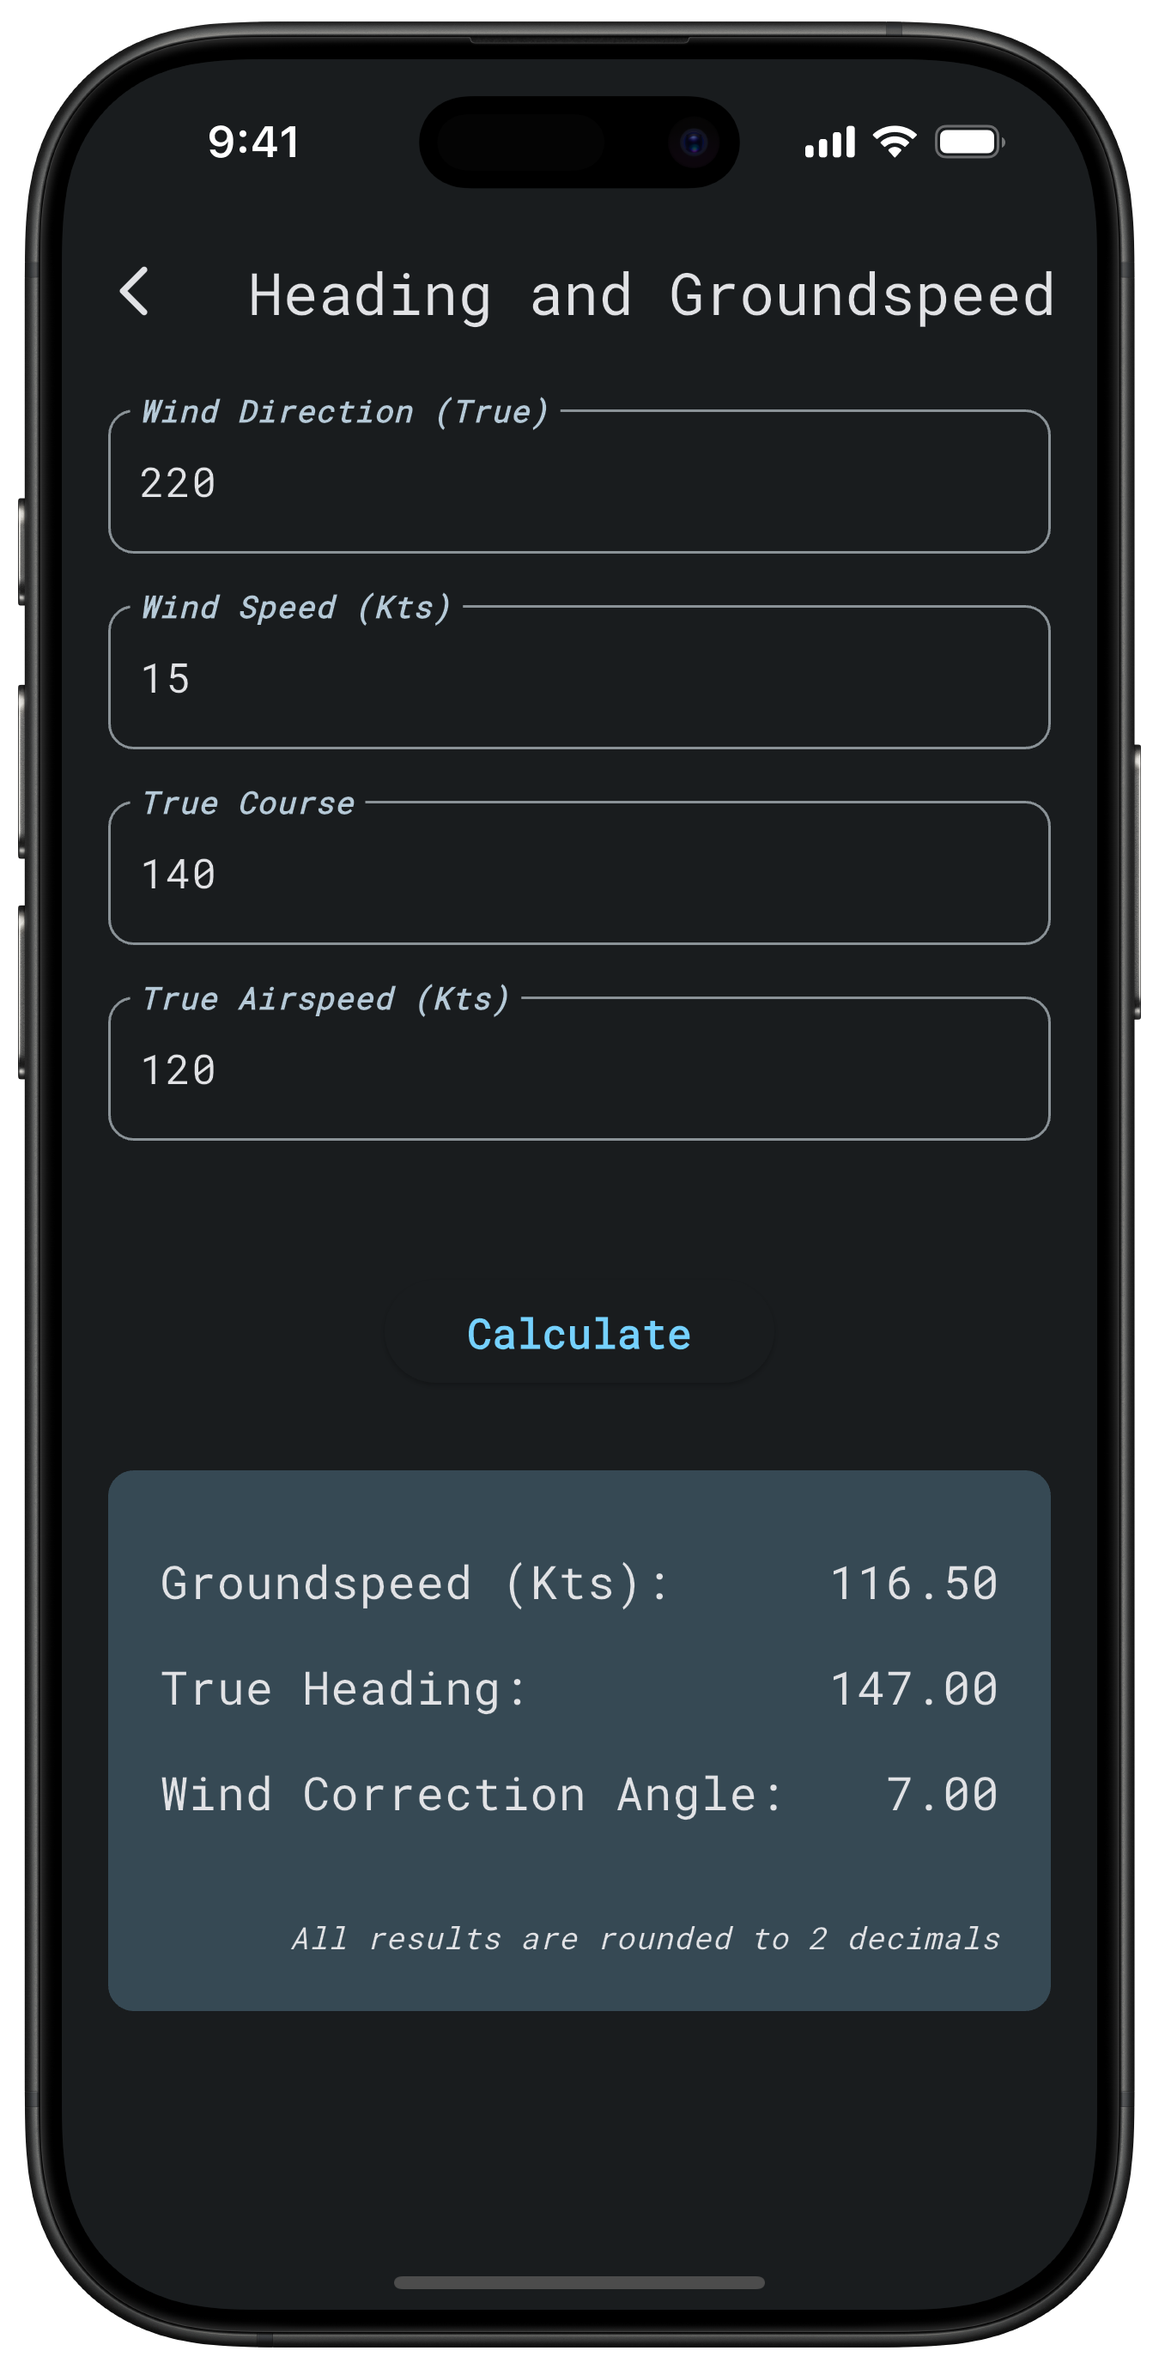
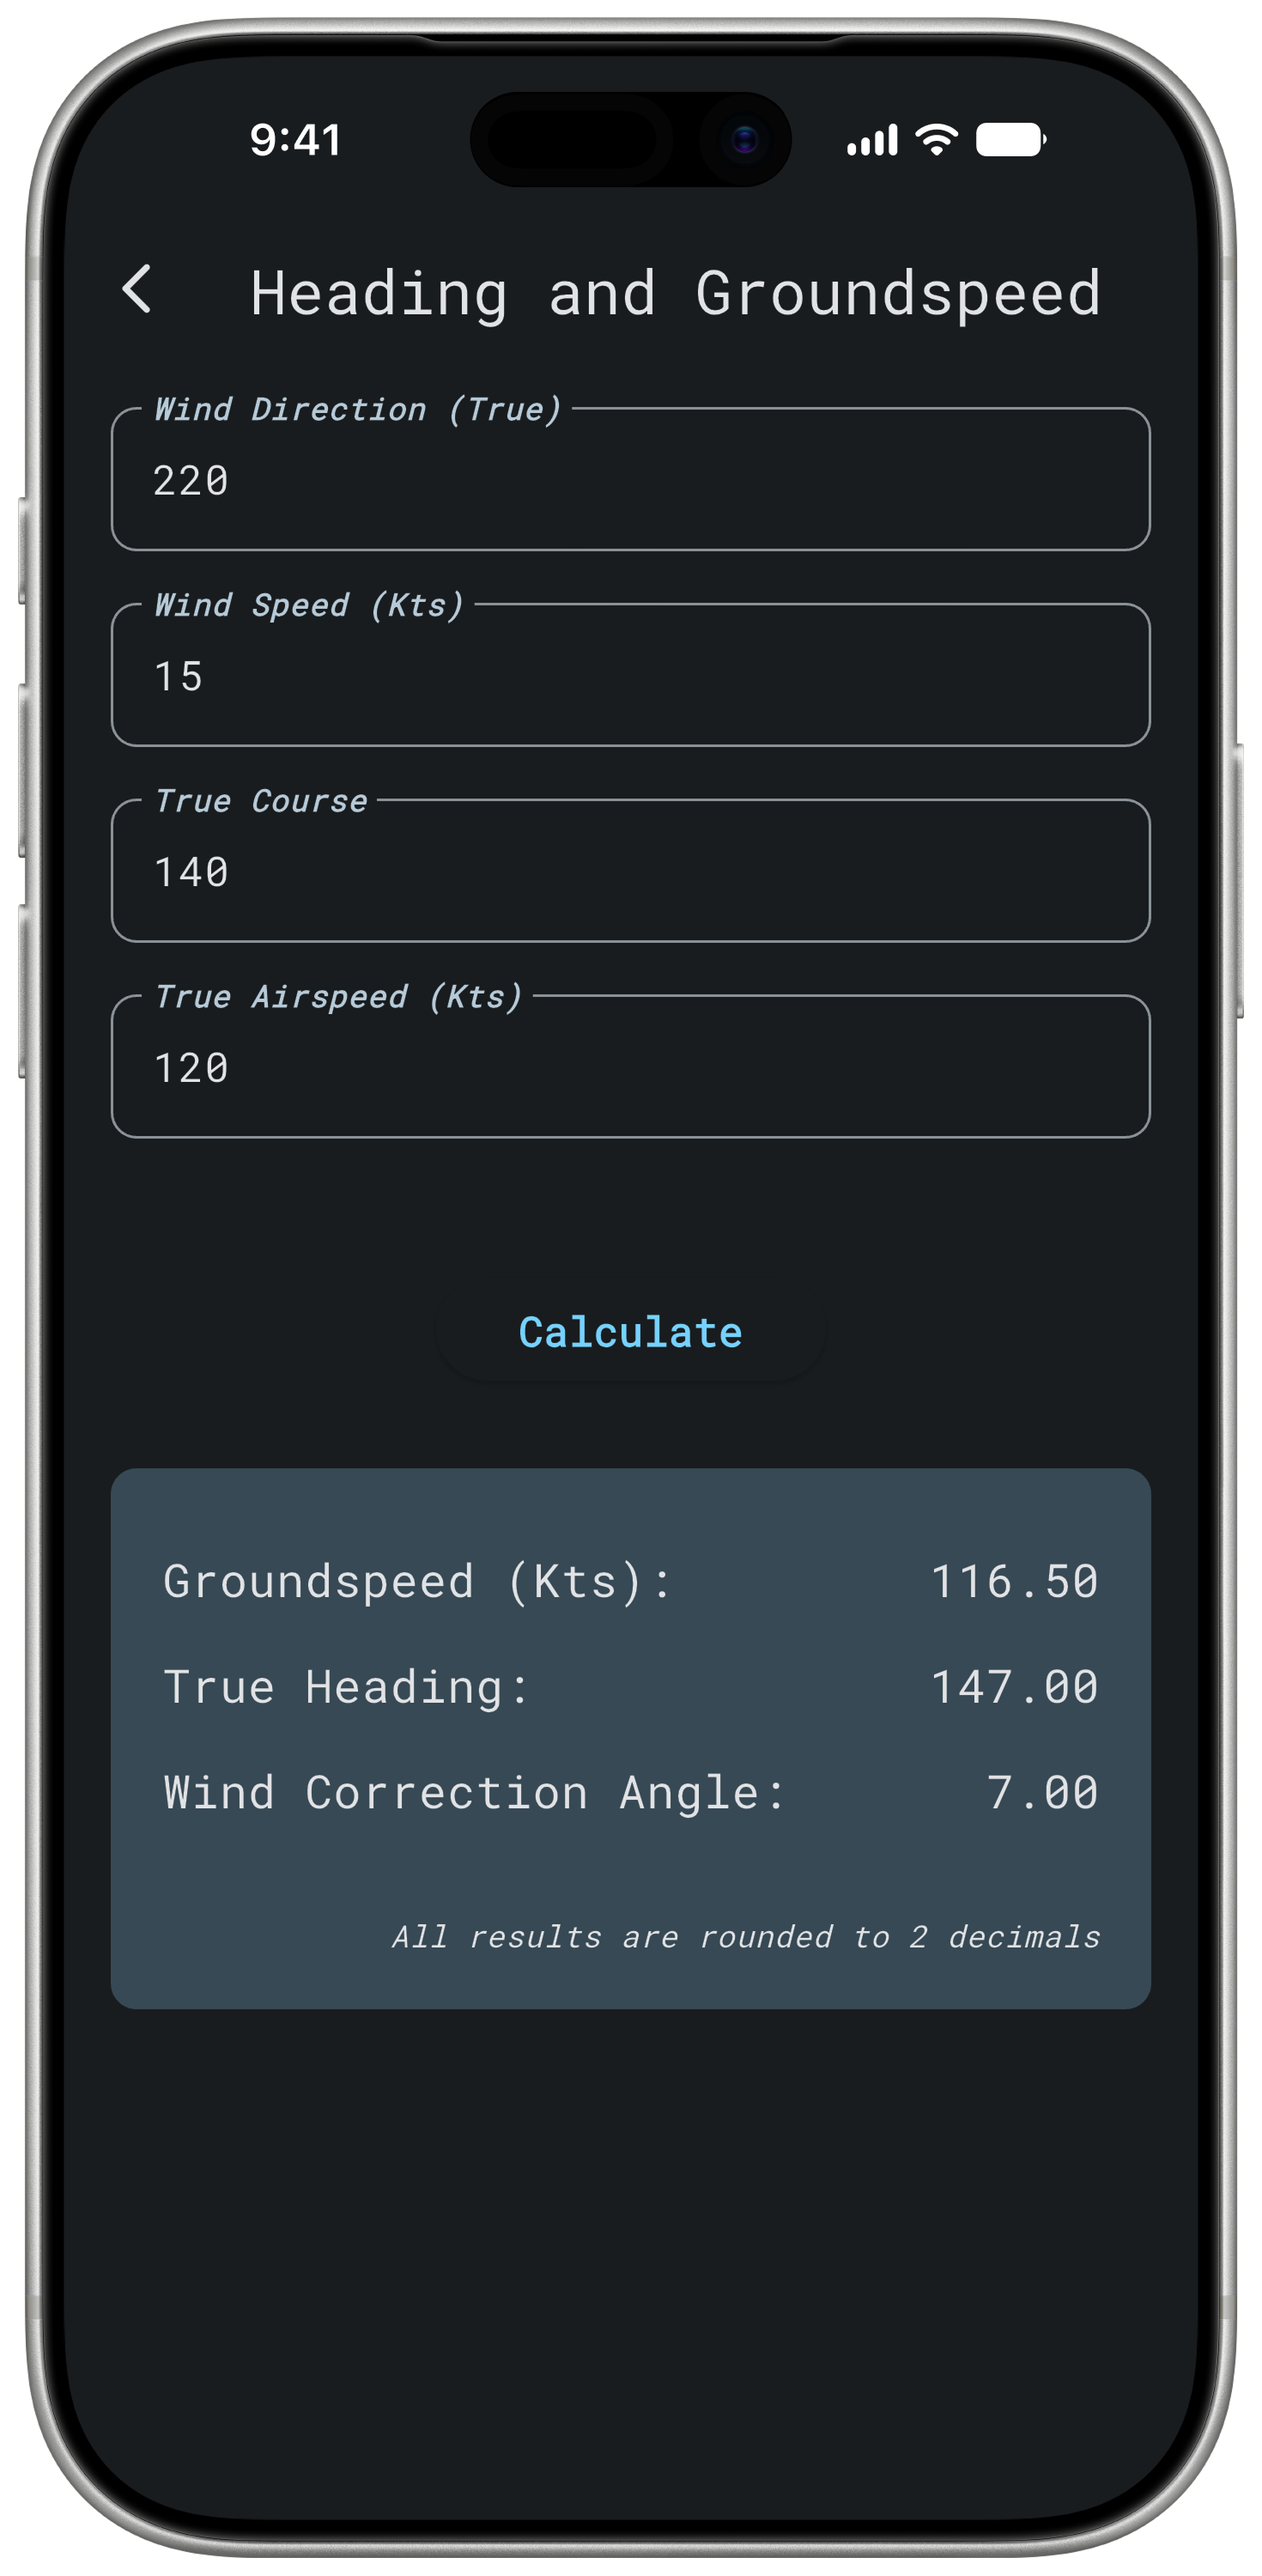
Update app screenshots to latest UI
Replace all seven screenshots with refreshed captures (titanium frame,
current in-app data). New images are 1470x3000, so update the width and
height attributes on every screenshot img to match and avoid layout
shift on load.

diff --git a/index.html b/index.html
@@ -64,7 +64,7 @@
             </div>
           </div>
           <div class="hero-media">
-            <img class="hero-image" src="assets/screenshots/Screen%200.png" alt="4Pilots screen 0" width="1350" height="2760">
+            <img class="hero-image" src="assets/screenshots/Screen%200.png" alt="4Pilots screen 0" width="1470" height="3000">
           </div>
         </div>
       </section>
@@ -129,22 +129,22 @@
           </div>
           <div class="grid cards">
             <article class="card">
-              <img src="assets/screenshots/Screen%200.png" alt="4Pilots screen 0" width="1350" height="2760" loading="lazy">
+              <img src="assets/screenshots/Screen%200.png" alt="4Pilots screen 0" width="1470" height="3000" loading="lazy">
               <h3>ICAO Flight Plan Builder</h3>
               <p>Create complete ICAO flight plans with structured, guided fields that follow official format requirements. Duplicate past plans in seconds and avoid repetitive typing.</p>
             </article>
             <article class="card">
-              <img src="assets/screenshots/Screen%202%20-%20Aircrafts.png" alt="4Pilots screen 2" width="1350" height="2760" loading="lazy">
+              <img src="assets/screenshots/Screen%202%20-%20Aircrafts.png" alt="4Pilots screen 2" width="1470" height="3000" loading="lazy">
               <h3>Save Aircraft Profiles</h3>
               <p>Store your aircraft data once — equipment codes, transponder details, emergency equipment — and reuse it instantly across flight plans. Perfect for student pilot flight planning.</p>
             </article>
             <article class="card">
-              <img src="assets/screenshots/Screen%201%20-%20Flight%20Plans.png" alt="4Pilots screen 1" width="1350" height="2760" loading="lazy">
+              <img src="assets/screenshots/Screen%201%20-%20Flight%20Plans.png" alt="4Pilots screen 1" width="1470" height="3000" loading="lazy">
               <h3>Access Your Flight Plan History</h3>
               <p>Keep a structured overview of all previous ICAO flight plans. Quickly duplicate and adjust routes without starting from scratch.</p>
             </article>
             <article class="card">
-              <img src="assets/screenshots/Screen%203%20-%20PDF.png" alt="4Pilots screen 3" width="1350" height="2760" loading="lazy">
+              <img src="assets/screenshots/Screen%203%20-%20PDF.png" alt="4Pilots screen 3" width="1470" height="3000" loading="lazy">
               <h3>Professional ICAO PDF Export</h3>
               <p>Generate a clean, correctly formatted ICAO flight plan PDF ready to email, print, or submit. No manual formatting required.</p>
             </article>
@@ -160,17 +160,17 @@
           </div>
           <div class="grid cards pro-cards">
             <article class="card">
-              <img src="assets/screenshots/Screen%204%20-%20E6B.png" alt="4Pilots Pro E6B flight computer" width="1350" height="2760" loading="lazy">
+              <img src="assets/screenshots/Screen%204%20-%20E6B.png" alt="4Pilots Pro E6B flight computer" width="1470" height="3000" loading="lazy">
               <h3>E6B Flight Computer</h3>
               <p>Perform essential aviation calculations directly in the app — wind correction, fuel burn, time enroute, and more.</p>
             </article>
             <article class="card">
-              <img src="assets/screenshots/Screen%206%20-%20Conversions.png" alt="4Pilots Pro aviation unit conversions" width="1350" height="2760" loading="lazy">
+              <img src="assets/screenshots/Screen%206%20-%20Conversions.png" alt="4Pilots Pro aviation unit conversions" width="1470" height="3000" loading="lazy">
               <h3>Aviation Unit Conversions</h3>
               <p>Quickly convert fuel, distance, temperature, and pressure with tools built for real-world aviation workflows.</p>
             </article>
             <article class="card">
-              <img src="assets/screenshots/Screen%205%20-%20WB.png" alt="4Pilots Pro weight and balance calculator" width="1350" height="2760" loading="lazy">
+              <img src="assets/screenshots/Screen%205%20-%20WB.png" alt="4Pilots Pro weight and balance calculator" width="1470" height="3000" loading="lazy">
               <h3>Weight &amp; Balance Calculator</h3>
               <p>Calculate weight and balance with aircraft-specific data to ensure safe and compliant operations.</p>
             </article>
